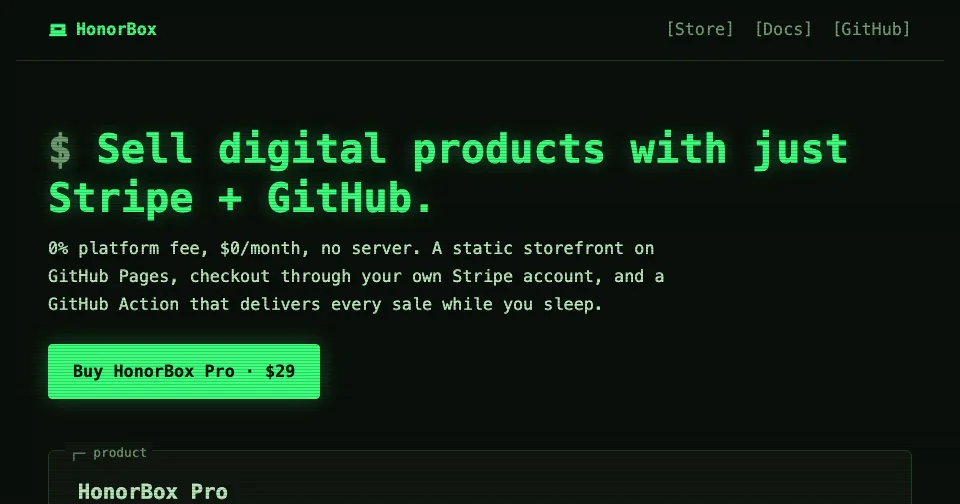
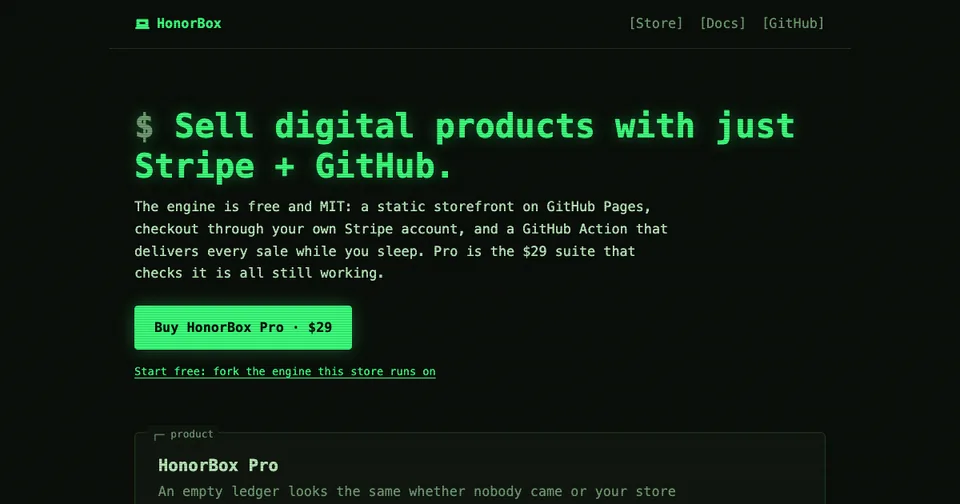
store: sell the themes that exist
The store advertised five Pro themes. Four of them were cut for quality and
only rail remains, so the README table, the showcase and the Pro page were
selling designs nobody can buy, illustrated with previews of deleted work.

The previews were stale in a second way that is easier to miss: stand and
terminal were rendered before the current lede and before the free-core link
under the buy button. The showcase note claims these are the same storefront
rebuilt with each theme, which was not true of a set shot weeks apart. All
three are re-rendered from this build, metadata stripped, 1200x630 for the
social card and 960x504 for the grid.

Pro leads with what rail is rather than how many themes come with it, and says
plainly that four were built and cut. One theme that holds beats a pack that
does not.

diff --git a/products/honorbox-pro.md b/products/honorbox-pro.md
@@ -131,18 +131,20 @@ sells is the part that keeps working after you have stopped thinking about it.
 [See exactly what the suite prints](https://github.com/Honorboxx/honorbox/blob/main/docs/pro-evidence.md#audit-the-standing-guard-on-a-store-that-looks-fine),
 on a store with four ordinary mistakes in it.
 
-**Four more themes.** Each one is a complete, hand-tuned design with fluid
-type, visible focus states and print styles: `atrium` (minimal, gallery-quiet),
-`brutalist` (loud, typographic), `editorial` (serif, book-calm), and `midnight`
-(indigo night, one amber lamp). Switch with one config line. The fifth,
-`terminal` (phosphor-on-black for CLI tools), ships in the free repo instead, as
-a complete Pro theme you can read before paying for the rest.
+**The `rail` theme.** A fixed left navigation column instead of a centred page:
+the store's structure stays on screen while the reader moves through it, which
+is what a catalogue of any size actually needs. Complete and hand-tuned, with
+fluid type, visible focus states, print styles, and a light and dark palette
+built as mirrors. Switch with one config line.
 
-![atrium theme, minimal graphite on plaster](./assets/previews/atrium.webp)
+We shipped one theme here rather than a pack. Four others were built and cut,
+because a theme that does not hold up is worse than no theme in something you
+paid for. The two in the free repo, `stand` and `terminal`, are complete Pro
+themes you can read before paying for anything.
+
+![rail theme, fixed left navigation column on ink](./assets/previews/rail.webp)
+![stand theme, monochrome and centred](./assets/previews/stand.webp)
 ![terminal theme, phosphor CRT](./assets/previews/terminal.webp)
-![brutalist theme, loud type and hard shadows](./assets/previews/brutalist.webp)
-![editorial theme, serif on book white](./assets/previews/editorial.webp)
-![midnight theme, indigo night](./assets/previews/midnight.webp)
 
 **The store doctor.** One read-only command that checks your whole pipe:
 config shape, the pasted-URL-instead-of-id mistake, whether your payment links

diff --git a/README.md b/README.md
@@ -127,16 +127,15 @@ and the builder adds a public `/trust` page for it. Off by default.
 
 ## The themes
 
-The free core ships `stand` (warm paper) **and `terminal`** (phosphor CRT).
-The latter is a full Pro theme published here as an auditable sample of the
-paid pack's code quality. Pro adds four more, each a complete hand-tuned
-design, switchable with one config line:
+The free core ships `stand` (monochrome and centred, the theme this repo's own
+store runs on) **and `terminal`** (phosphor on glass, for CLI tools). Both carry
+a light and a dark palette built as mirrors, and a toggle that remembers the
+reader's choice. Pro adds `rail`, a fixed left navigation column, switchable
+with one config line:
 
-| | |
-|---|---|
-| ![terminal](assets/previews/terminal.webp) | ![atrium](assets/previews/atrium.webp) |
-| ![brutalist](assets/previews/brutalist.webp) | ![editorial](assets/previews/editorial.webp) |
-| ![midnight](assets/previews/midnight.webp) | |
+| | | |
+|---|---|---|
+| ![stand](assets/previews/stand.webp) | ![terminal](assets/previews/terminal.webp) | ![rail](assets/previews/rail.webp) |
 
 ## Free core vs Pro
 
@@ -158,7 +157,7 @@ full, free, and is worth reading even if you never buy anything.
 
 Pro also adds a store doctor, reconcile (which pairs every paid order back to
 whether that buyer has access *right now*), a refund guard and support bot,
-tracker-free stats, four more themes, an offline ed25519 license-key module, and
+tracker-free stats, the `rail` theme, an offline ed25519 license-key module, and
 a commerce playbook. One-time: **$29** for one developer, **$99** for a team of
 up to five, **$249** for a company. Buying it funds the free core.
 